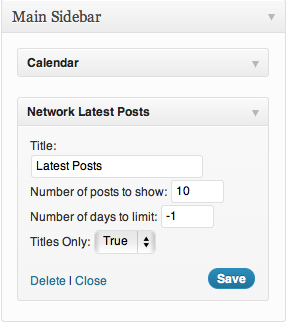
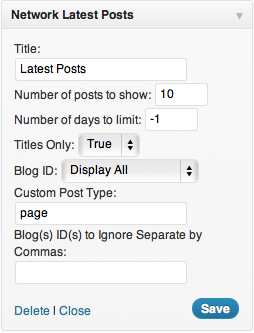
Version 1.2: two new features: cpt *and* ignore_blog, some bug fixes
git-svn-id: https://plugins.svn.wordpress.org/network-latest-posts/trunk@521109 b8457f37-d9ea-0310-8a92-e5e31aec5664

diff --git a/network-latest-posts.php b/network-latest-posts.php
@@ -3,7 +3,7 @@
 Plugin Name: Network Latest Posts
 Plugin URI: http://en.8elite.com/2012/02/27/network-latest-posts-wordpress-3-plugin/
 Description: This plugin allows you to list the latest posts from the blogs in your network and display them in your site using shortcodes or as a widget. Based in the WPMU Recent Posts Widget by Angelo (http://bitfreedom.com/)
-Version: 1.1
+Version: 1.2
 Author: L'Elite
 Author URI: https://laelite.info/
 */
@@ -30,10 +30,13 @@ $titleOnly: true (only title of post is displayed) OR false (title of post and n
 $begin_wrap: customise the start html code to adapt to different themes
 $end_wrap: customise the end html code to adapt to different themes
 $blog_id: allows you to retrieve the data for a specific blog
+$thumbnail: allows you to display the post's thumbnail (shortcode only)
+$cpt: allows you to display a custom post type (post, page, etc) (shortcode and widget)
+$ignore_blog: allows you to ignore one or various blogs using their ID numbers (shortcode and widget)
 
-Sample call: network_latest_posts(5, 30, true, '<li>', '</li>', null); >> 5 most recent entries over the past 30 days, displaying titles only
+Sample call: network_latest_posts(5, 30, true, '<li>', '</li>'); >> 5 most recent entries over the past 30 days, displaying titles only
 
-Sample Shortcode: [nlposts title='Latest Posts' number='2' days='30' titleonly=false wrapo='<div>' wrapc='</div>' blogid=null thumbnail=false]
+Sample Shortcode: [nlposts title='Latest Posts' number='2' days='30' titleonly=false wrapo='<div>' wrapc='</div>' blogid=null thumbnail=false cpt=post ignore_blog=null]
  * title = the section's title null by default
  * number = number of posts to display by blog 10 by default
  * days = time frame to choose recent posts from (in days) 0 by default
@@ -42,11 +45,41 @@ Sample Shortcode: [nlposts title='Latest Posts' number='2' days='30' titleonly=f
  * wrapc = html closing tag to wrap the output (for styling purposes) null by default
  * blogid = the id of the blog for which you want to display the latest posts null by default
  * thumbnail = allows you to display the thumbnail (featured image) for each post it can be true or false (false by default)
+ * cpt = custom post type, it allows you to display a specific post type (post, page, etc) (post by default)
+ * ignore_blog = this parameter allows you to ignore one or a list of IDs separated by commas (null by default) 
 */
-function network_latest_posts($how_many=10, $how_long=0, $titleOnly=true, $begin_wrap="\n<ul><li>", $end_wrap="</li></ul>", $blog_id='null', $thumbnail=false) {
+/*
+ * cpt & ignore_blog parameters were proposed by John Hawkins (9seeds.com)
+ * 
+ * Thanks for the patches, I did some tweaks to your code but it's basically the same idea
+ * I also could spot some bugs I didn't fix the last time I updated the plugin
+ * and improved the Widget lists because the <ul></ul> tags where repeating, now it's finally fixed I think
+ */
+function network_latest_posts($how_many=10, $how_long=0, $titleOnly=true, $begin_wrap="\n<li>", $end_wrap="</li>", $blog_id='null', $thumbnail=false, $cpt="post", $ignore_blog='null') {
 	global $wpdb;
 	global $table_prefix;
 	$counter = 0;
+        // Custom post type
+        $cpt = htmlspecialchars($cpt);
+        // Ignore blog or blogs
+        // if the user passes one value
+        if( !preg_match("/,/",$ignore_blog) ) {
+            // Always clean this stuff ;)
+            $ignore_blog = htmlspecialchars($ignore_blog);
+            // Check if it's numeric
+            if( is_numeric($ignore_blog) ) {
+                // and put the sql
+                $ignore = " AND blog_id != $ignore_blog ";
+            }
+        // if the user passes more than one value separated by commas
+        } else {
+            // create an array
+            $ignore_arr = explode(",",$ignore_blog);
+            // and repeat the sql for each ID found
+            for($z=0;$z<count($ignore_arr);$z++){
+                $ignore .= " AND blog_id != $ignore_arr[$z]";
+            }
+        }
 	// get a list of blogs in order of most recent update. show only public and nonarchived/spam/mature/deleted
 	if ($how_long > 0) {
                 // Select by blog id
@@ -54,11 +87,11 @@ function network_latest_posts($how_many=10, $how_long=0, $titleOnly=true, $begin
                     $blog_id = htmlspecialchars($blog_id);
                     $blogs = $wpdb->get_col("SELECT blog_id FROM $wpdb->blogs WHERE
                     public = '1' AND archived = '0' AND mature = '0' AND spam = '0' AND deleted = '0'
-                    AND blog_id = $blog_id AND last_updated >= DATE_SUB(CURRENT_DATE(), INTERVAL $how_long DAY)
+                    AND blog_id = $blog_id $ignore AND last_updated >= DATE_SUB(CURRENT_DATE(), INTERVAL $how_long DAY)
                     ORDER BY last_updated DESC");
                 } else {
                     $blogs = $wpdb->get_col("SELECT blog_id FROM $wpdb->blogs WHERE
-                    public = '1' AND archived = '0' AND mature = '0' AND spam = '0' AND deleted = '0'
+                    public = '1' $ignore AND archived = '0' AND mature = '0' AND spam = '0' AND deleted = '0'
                     AND last_updated >= DATE_SUB(CURRENT_DATE(), INTERVAL $how_long DAY)
                     ORDER BY last_updated DESC");                    
                 }
@@ -67,11 +100,11 @@ function network_latest_posts($how_many=10, $how_long=0, $titleOnly=true, $begin
                     $blog_id = htmlspecialchars($blog_id);
                     $blogs = $wpdb->get_col("SELECT blog_id FROM $wpdb->blogs WHERE
 			public = '1' AND archived = '0' AND mature = '0' AND spam = '0' AND deleted = '0' AND blog_id = $blog_id
-			ORDER BY last_updated DESC");
+			$ignore ORDER BY last_updated DESC");
                 } else {
                     $blogs = $wpdb->get_col("SELECT blog_id FROM $wpdb->blogs WHERE
 			public = '1' AND archived = '0' AND mature = '0' AND spam = '0' AND deleted = '0'
-			ORDER BY last_updated DESC");                   
+			$ignore ORDER BY last_updated DESC");                   
                 }
 	}
 
@@ -94,14 +127,14 @@ function network_latest_posts($how_many=10, $how_long=0, $titleOnly=true, $begin
 				$thispost = $wpdb->get_results("SELECT ID, post_title, post_excerpt
 					FROM $blogPostsTable WHERE post_status = 'publish'
 					AND ID > 1
-					AND post_type = 'post'
+					AND post_type = '$cpt'
 					AND post_date >= DATE_SUB(CURRENT_DATE(), INTERVAL $how_long DAY)
 					ORDER BY id DESC LIMIT 0,$how_many");
 			} else {
 				$thispost = $wpdb->get_results("SELECT ID, post_title, post_excerpt
 					FROM $blogPostsTable WHERE post_status = 'publish'
 					AND ID > 1
-					AND post_type = 'post'
+					AND post_type = '$cpt'
 					ORDER BY id DESC LIMIT 0,$how_many");
 			}
 			// if it is found put it to the output
@@ -114,12 +147,11 @@ function network_latest_posts($how_many=10, $how_long=0, $titleOnly=true, $begin
                                     // If we want to show the excerpt, we do this
                                     if ($titleOnly == false || $titleOnly == 'false') {
                                         // Widget list
-                                        if( preg_match("/\bul\b/",$begin_wrap) ) { 
+                                        if( preg_match("/\bli\b/",$begin_wrap) ) { 
                                             echo $begin_wrap.'<div class="network-posts blog-'.$blog.'"><a href="'
                                             .$thispermalink.'">'.$thispost[$i]->post_title.'</a><span class="network-posts-source">'.__('published in','trans-nlp').' <a href="'
                                             .$options[0]->option_value.'">'
                                             .$options[1]->option_value.'</a></span><p class="network-posts-excerpt">'.$thispost[$i]->post_excerpt.'</p></div>'.$end_wrap;
-                                            $counter++;
                                         // Shortcode
                                         } else {
                                             // Display thumbnail
@@ -129,33 +161,31 @@ function network_latest_posts($how_many=10, $how_long=0, $titleOnly=true, $begin
                                                 .$options[0]->option_value.'">'
                                                 .$options[1]->option_value.'</a></span><a href="'
                                                 .$thispermalink.'">'.the_post_thumbnail_by_blog($blog,$thispost[$i]->ID).'</a> <p class="network-posts-excerpt">'.$thispost[$i]->post_excerpt.'</p></div>'.$end_wrap;
-                                                $counter++;
                                             // Without thumbnail
                                             } else {
                                                 echo $begin_wrap.'<div class="network-posts blog-'.$blog.'"><h1 class="network-posts-title"><a href="'
                                                 .$thispermalink.'">'.$thispost[$i]->post_title.'</a></h1><span class="network-posts-source">'.__('published in','trans-nlp').' <a href="'
                                                 .$options[0]->option_value.'">'
                                                 .$options[1]->option_value.'</a></span><p class="network-posts-excerpt">'.$thispost[$i]->post_excerpt.'</p></div>'.$end_wrap;
-                                                $counter++;
                                             }
                                         }
                                     // Otherwise we just show the titles (useful when used as a widget)
                                     } else {
                                         // Widget list
-                                        if( preg_match("/\bul\b/",$begin_wrap) ) { 
+                                        if( preg_match("/\bli\b/",$begin_wrap) ) { 
                                             echo $begin_wrap.'<div class="network-posts blog'.$blog.'"><a href="'.$thispermalink
                                             .'">'.$thispost[$i]->post_title.'</a></div>'.$end_wrap;
-                                            $counter++;
                                         // Shortcode
                                         } else {
                                             echo $begin_wrap.'<div class="network-posts blog'.$blog.'"><h1 class="network-posts-title"><a href="'.$thispermalink
                                             .'">'.$thispost[$i]->post_title.'</a></h1></div>'.$end_wrap;
-                                            $counter++;
                                         }
                                     }
                                 }
+                                // Count only when all posts has been displayed
+                                $counter++;
 			}
-			// don't go over the limit
+			// don't go over the limit of blogs
 			if($counter >= $nblogs) {
 				break; 
 			}
@@ -174,7 +204,9 @@ function network_latest_posts_control() {
 			'number' => '10',
 			'days' => '-1',
                         'titleonly' => true,
-                        'blogid' => 'null'
+                        'blogid' => 'null',
+                        'cpt' => 'post',
+                        'ignore_blog' => 'null'
 		);
 	}
         // Save changes
@@ -184,6 +216,8 @@ function network_latest_posts_control() {
 		$options['days'] = intval($_POST['network_latest_posts_days']);
                 $options['titleonly'] = htmlspecialchars($_POST['network_latest_posts_titleonly']);
                 $options['blogid'] = htmlspecialchars($_POST['network_latest_posts_blogid']);
+                $options['cpt'] = htmlspecialchars($_POST['network_latest_posts_custompost']);
+                $options['ignore_blog'] = htmlspecialchars($_POST['network_latest_posts_ignoreblog']);
                 // Update hook
 		update_option("network_latest_posts_widget", $options);
 	}
@@ -207,17 +241,21 @@ function network_latest_posts_control() {
             <option value="null" <?php if($options['blogid'] == 'null'){ echo "selected='selected'"; } ?>><?php echo __('Display All','trans-nlp'); ?></option>
             <?php
                 global $wpdb;
-                $bids = $wpdb->get_col("SELECT blog_id FROM $wpdb->blogs WHERE
+                $bids = $wpdb->get_results("SELECT blog_id, domain FROM $wpdb->blogs WHERE
 			public = '1' AND archived = '0' AND mature = '0' AND spam = '0' AND deleted = '0'
 			ORDER BY last_updated DESC");
                 
                 foreach ($bids as $tbid) {
             ?>
-            <option value="<?php echo $tbid; ?>" <?php if($tbid == $options['blogid']){ echo "selected='selected'"; } ?>><?php echo $tbid; ?></option>
+            <option value="<?php echo $tbid->blog_id; ?>" <?php if($tbid->blog_id == $options['blogid']){ echo "selected='selected'"; } ?>><?php echo $tbid->domain." (ID ".$tbid->blog_id.")"; ?></option>
             <?php
                 }
             ?>
         </select>
+        <br /><label for="network_latest_posts_custompost"><?php echo __('Custom Post Type','trans-nlp'); ?>: </label>
+        <br /><input type="text" id="network_latest_posts_custompost" name="network_latest_posts_custompost" value="<?php echo $options['cpt'];?>" />
+        <br /><label for="network_latest_posts_ignoreblog"><?php echo __('Blog(s) ID(s) to Ignore Separate by Commas','trans-nlp'); ?>: </label>
+        <br /><input type="text" id="network_latest_posts_ignoreblog" name="network_latest_posts_ignoreblog" value="<?php echo $options['ignore_blog'];?>" />
 	<input type="hidden" id="network_latest_posts_submit" name="network_latest_posts_submit" value="1" />
 	</p>
 
@@ -237,14 +275,16 @@ function network_latest_posts_widget($args) {
 			'number' => '10',
 			'days' => '-1',
                         'titleonly' => true,
-                        'blogid' => 'null'
+                        'blogid' => 'null',
+                        'cpt' => 'post',
+                        'ignore_blog' => 'null'
 		);
 	}
         // Display the widget
 	echo $before_widget;
-	echo "$before_title $options[title] $after_title";
-	network_latest_posts($options['number'],$options['days'],$options['titleonly'],"\n<ul><li>","</li></ul>",$options['blogid']);
-	echo $after_widget;
+	echo "$before_title $options[title] $after_title <ul>";
+	network_latest_posts($options['number'],$options['days'],$options['titleonly'],"\n<li>","</li>",$options['blogid'],null,$options['cpt'],$options['ignore_blog']);
+	echo "</ul>".$after_widget;
 }
 
 // Init function
@@ -270,14 +310,16 @@ function network_latest_posts_shortcode($atts){
         'wrapo' => null,
         'wrapc' => null,
         'blogid' => 'null',
-        'thumbnail' => false
+        'thumbnail' => false,
+        'cpt' => 'post',
+        'ignore_blog' => 'null'
     ), $atts));
     // Avoid direct output to control the display position
     ob_start();
     // Check if we have set a title
     if( !empty( $title ) ) { echo "<div class='network-latest-posts-sectitle'><h1>".$title."</h1></div>"; }
     // Get the posts
-    network_latest_posts($number,$days,$titleonly,$wrapo,$wrapc,$blogid,$thumbnail);
+    network_latest_posts($number,$days,$titleonly,$wrapo,$wrapc,$blogid,$thumbnail,$cpt,$ignore_blog);
     $output_string=ob_get_contents();;
     ob_end_clean();
     // Put the content where we want
